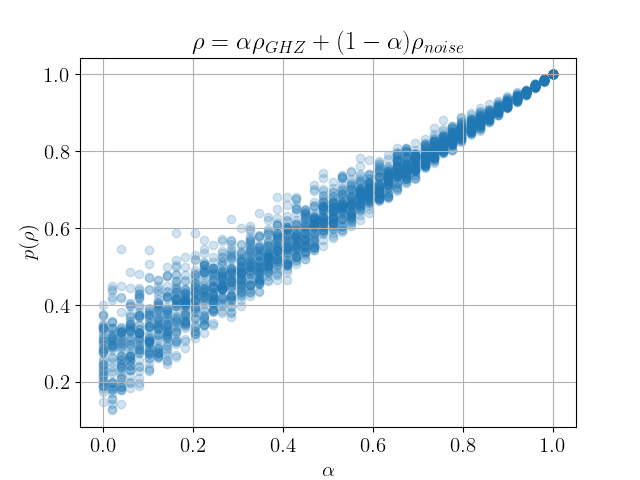
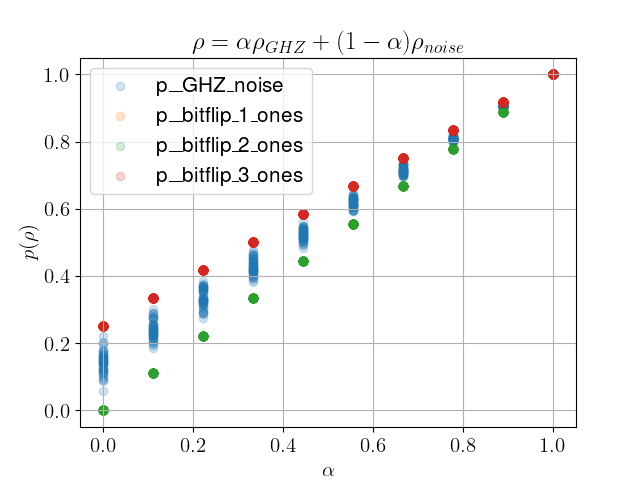
Generalised bitflips for n_qubits.

diff --git a/mixed_states/mixed_states.py b/mixed_states/mixed_states.py
@@ -27,7 +27,7 @@ state = 'GHZ'
 # states = ['GHZ', 'W']
 
 n = 50
-n_alpha = 50
+n_alpha = 10
 
 PRINT_STATES = 0
 PRINT_F = 0
@@ -35,7 +35,7 @@ PRINT_F = 0
 aux.check_dir(state)
 
 #%%
-def density_matrix(state, n_qubits):
+def density_matrix(state, n_qubits, n_ones=0):
     if state=='GHZ':
         coefficients = np.zeros(2**n_qubits)
         coefficients[0] = coefficients[-1] = 1
@@ -53,10 +53,36 @@ def density_matrix(state, n_qubits):
         coefficients = np.random.rand(2**n_qubits)
         coefficients[0] = coefficients[-1] = 0
         coefficients = coefficients/np.linalg.norm(coefficients)
+    
+    elif state=='bitflip':
+        # n_ones = 1
+        n_zeros = n_qubits - n_ones
         
-    elif state=='single_excitations_noise':
+        bits = set([''.join(x) for x in itertools.permutations(n_ones * '1' + n_zeros * '0', 4)])
+        
         coefficients = np.zeros(2**n_qubits)
-        i = np.random.randint(1, 2**n_qubits-1)
+        options = []
+        for b in bits:
+            options.append(int(b, base=2))
+        i = np.random.choice(options)
+        coefficients[i] = 1
+    
+    elif state=='bitflip_1':
+        coefficients = np.zeros(2**n_qubits)
+        # i = np.random.randint(1, 2**n_qubits-1)
+        i = np.random.choice([1, 2, 4, 8])
+        coefficients[i] = 1
+        
+    elif state=='bitflip_2':
+        coefficients = np.zeros(2**n_qubits)
+        # i = np.random.randint(1, 2**n_qubits-1)
+        i = np.random.choice([3, 5, 6, 10, 12])
+        coefficients[i] = 1
+        # coefficients = coefficients/np.linalg.norm(coefficients)
+    elif state=='bitflip_3':
+        coefficients = np.zeros(2**n_qubits)
+        # i = np.random.randint(1, 2**n_qubits-1)
+        i = np.random.choice([7, 11, 13, 14])
         coefficients[i] = 1
         # coefficients = coefficients/np.linalg.norm(coefficients)
     
@@ -75,6 +101,7 @@ def print_state(state, coefficients):
     for c,b in zip(coefficients, basis):
         if c:
             psi = psi + ' + ' + '%.8f'%c + '\t| %s >'%str(b).strip('()') + '\n'
+    # print(20*'=')
     print(state + ':')
     print(psi)
 
@@ -82,7 +109,7 @@ def print_state(state, coefficients):
 
 #%%
 
-def simulate_state(state, alpha, noise_type):
+def simulate_state(state, alpha, noise_type, n_ones_bitflip=0):
     # states = ['GHZ', 'W', 'noise']
     # alpha between 0 and 1.
     
@@ -92,9 +119,8 @@ def simulate_state(state, alpha, noise_type):
     # rho['GHZ'] = density_matrix('GHZ', n_qubits)
     
     rho[state] = density_matrix(state, n_qubits)
-    rho[noise_type] = density_matrix(noise_type, n_qubits)
+    rho[noise_type] = density_matrix(noise_type, n_qubits, n_ones=n_ones_bitflip)
     # rho['single_excitations_noise'] = density_matrix('single_excitations_noise', n_qubits)
-    
     
     
     rho['MIXED'] = alpha * rho[state] + (1-alpha) * rho[noise_type]
@@ -141,10 +167,12 @@ def simulate_state(state, alpha, noise_type):
         print(F)
     return F
 
-
+def privacy(W, F):
+    p = np.trace(np.dot(W, F))/(np.trace(W)*np.trace(F))
+    return p
 #%%
 
-data = pd.DataFrame(columns=['alpha', 'p'])
+data = pd.DataFrame()
 
 w = np.ones(n_qubits) # 2*np.random.rand(d) - np.ones(d)
 
@@ -157,31 +185,48 @@ a = np.linspace(0, 1, num=n_alpha)
 # alpha = 0.5
 
 
-# noise_types = ['GHZ_noise', 'single_excitations_noise']
 # GHZ_noise is noise everywhere except |00...0> and |11...1>
 # single_excitations_noise is one other element of the base (e.g. |1000>)
 
-# noise_types = ['single_excitations_noise']
-noise_types = ['GHZ_noise']
+noise_types = ['GHZ_noise', 'bitflip']
 
 for noise_type in noise_types:
-    for alpha in a:
-        for i in range(n):
-            l = len(data)
-            F = simulate_state(state, alpha, noise_type)
-            data.at[l+1, 'alpha'] = alpha
-            p = np.trace(np.dot(W, F))/(np.trace(F)*np.trace(W))
-            data.at[l+1, 'p'] = p
+    if noise_type=='GHZ_noise':
+        print(noise_type)
+        for alpha in a:
+            for i in range(n):
+                l = len(data)
+                
+                F = simulate_state(state, alpha, noise_type)
+                data.at[l+1, 'alpha'] = alpha
+                
+                p = privacy(W, F)
+                data.at[l+1, 'p_' + '_' + noise_type] = p
+    else:
+        for n_ones in range(1, n_qubits):
+            print(noise_type, n_ones, 'ones')
+            for alpha in a:
+                for i in range(n):
+                    l = len(data)
+                    
+                    F = simulate_state(state, alpha, noise_type, n_ones)
+                    data.at[l+1, 'alpha'] = alpha
+                    
+                    p = privacy(W, F)
+                    data.at[l+1, 'p_' + '_' + noise_type + '_' + str(n_ones) + '_ones'] = p
             
-            # data.append([alpha, p])
 #%%
 
 plt.figure()
-plt.scatter(data['alpha'], data['p'], alpha=0.2)
+
+for c in data.columns[1:]:
+    plt.scatter(data['alpha'], data[c], alpha=0.2, label=c)
+    
 plt.title(r'$\rho = \alpha \rho_{%s} + (1-\alpha) \rho_{noise}$'%state)
 plt.xlabel(r'$\alpha$')
 plt.ylabel(r'$p(\rho)$')
 plt.grid()
+plt.legend()
 # plt.ylim([0, 1])
 plt.show()
-plt.savefig(state + os.sep + '%s_%d_%s.png'%(state, n_qubits, noise_type))
+plt.savefig(state + os.sep + '%s_%d.png'%(state, n_qubits))
